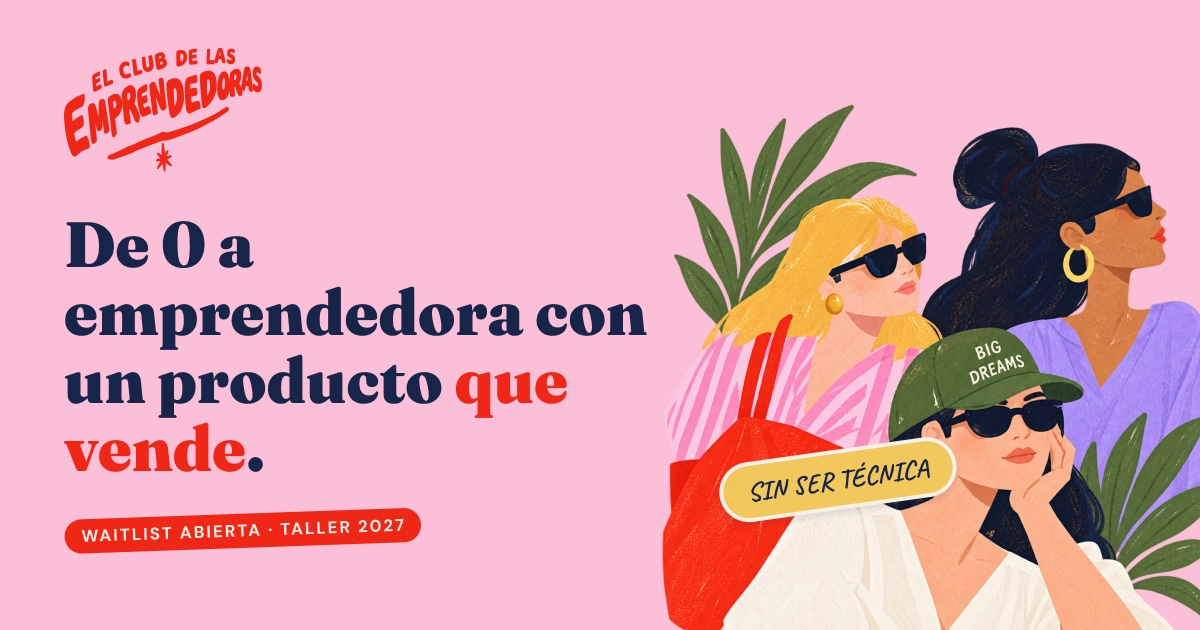
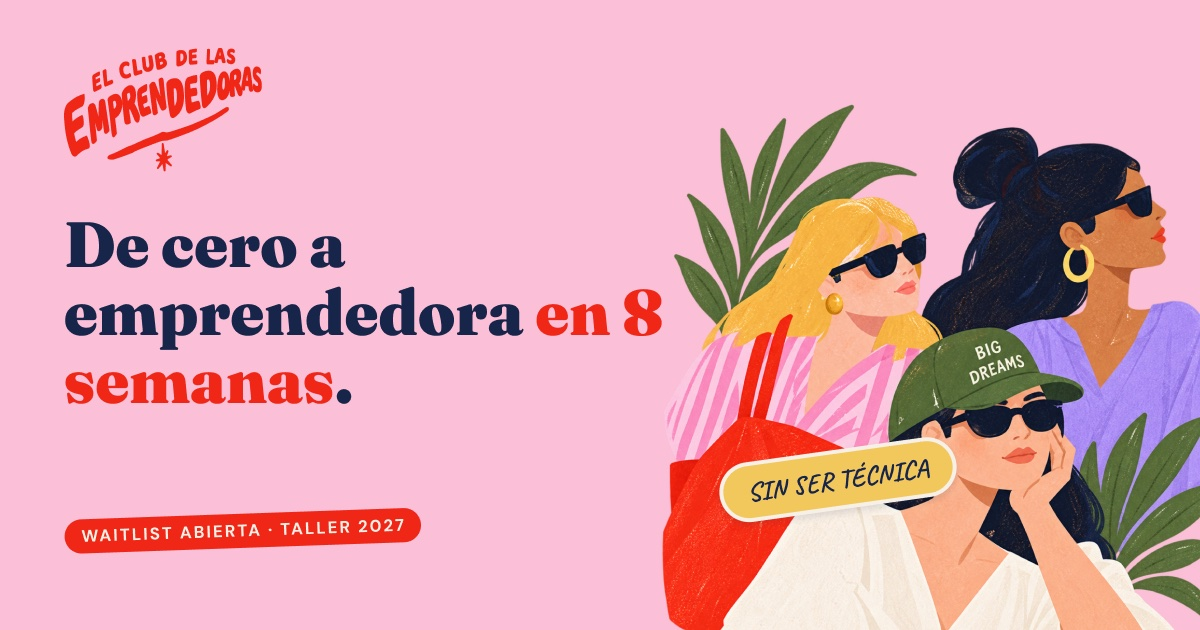
New hero: "De cero a emprendedora en 8 semanas"
Headline plus a subtitle about turning the idea into a mobile app without
being technical or spending thousands, with AI and a supportive group of
women. Updated meta/OG text and regenerated the share image.

Changed region(s): [[0.0308, 0.573, 0.4933, 0.754], [0.1233, 0.3317, 0.3083, 0.4222], [0.4317, 0.4524, 0.555, 0.5429]]

diff --git a/site/index.html b/site/index.html
@@ -4,14 +4,14 @@
   <meta charset="utf-8">
   <meta name="viewport" content="width=device-width, initial-scale=1, viewport-fit=cover">
   <title>El Club de las Emprendedoras · Waitlist 2027</title>
-  <meta name="description" content="Un taller de 8 semanas para encontrar tu idea, convertirla en una app móvil y crecerla a miles de usuarios, con IA y sin saber programar. Apártate un lugar en la waitlist.">
+  <meta name="description" content="De cero a emprendedora en 8 semanas. Convierte tu idea en tu aplicación móvil sin ser técnica, sin miles de dólares y con IA, en un grupo de mujeres que se apoyan entre ellas. Apártate un lugar en la waitlist.">
   <meta name="theme-color" content="#FBC0D7">
   <link rel="icon" href="assets/brand/asterisk.svg" type="image/svg+xml">
 
   <meta property="og:type" content="website">
   <meta property="og:locale" content="es_MX">
-  <meta property="og:title" content="De 0 a emprendedora en 8 semanas con IA">
-  <meta property="og:description" content="Pierde el miedo a emprender y convierte tus ideas de negocio en una aplicación móvil que si vende con ayuda de la inteligencia artificial.">
+  <meta property="og:title" content="De cero a emprendedora en 8 semanas">
+  <meta property="og:description" content="Convierte tu idea en tu aplicación móvil sin ser técnica, sin miles de dólares y con IA, en un grupo de mujeres que se apoyan entre ellas.">
   <meta property="og:image" content="assets/img/og.jpg">
   <meta name="twitter:card" content="summary_large_image">
 
@@ -43,9 +43,9 @@
         <div class="hero__copy">
           <p class="kicker kicker--tomato tilt-l">Waitlist abierta · Taller 2027</p>
           <h1 id="hero-title" class="display">
-            De 0 a emprendedora con un producto <span class="accent underline">que vende</span>.
+            De cero a emprendedora <span class="accent underline">en 8 semanas</span>.
           </h1>
-          <p class="lead">Prepárate para ser parte de un grupo exclusivo de emprendedoras que le pierden el miedo a emprender y usan la inteligencia artificial como expertas.</p>
+          <p class="lead">Convierte tu idea en tu aplicación móvil sin ser técnica, sin miles de dólares y con IA, en un grupo de mujeres que se apoyan entre ellas.</p>
 
           <!-- Club/Waitlist Form -->
           <div class="waitlist" id="unirme">
